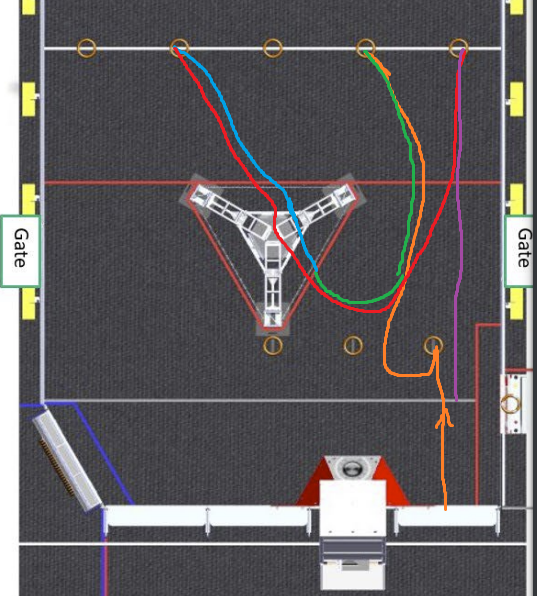
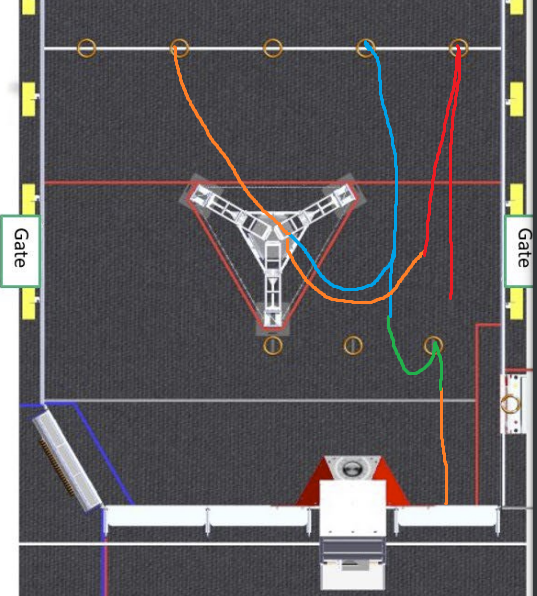
fixed some bugs in red ds2
added blue ds2 auto stage, which is just flipping red ds2 over
working on other auto stages...

Changed region(s): [[0.3277, 0.0604, 0.8641, 0.7248], [0.8045, 0.755, 0.8343, 0.8456]]

diff --git a/src/main/java/frc/robot/AutoStagePrograms/BlueDS2.java b/src/main/java/frc/robot/AutoStagePrograms/BlueDS2.java
@@ -2,6 +2,7 @@ package frc.robot.AutoStagePrograms;
 
 import frc.robot.RobotCore;
 import frc.robot.Utils.ComputerVisionUtils.AutoStageVisionAimBot;
+import frc.robot.Utils.Flip;
 import frc.robot.Utils.MathUtils.BezierCurve;
 import frc.robot.Utils.MathUtils.Rotation2D;
 import frc.robot.Utils.MathUtils.SpeedCurves;
@@ -12,25 +13,28 @@ import frc.robot.Utils.SequentialCommandSegment;
 import java.util.ArrayList;
 import java.util.List;
 
-public class RedDS2 implements AutoStageProgram {
+public class BlueDS2 implements AutoStageProgram {
     public static final Vector2D
-            assumedSpeakerPosition = new Vector2D(new double[] {1.45, 0}),
-            allianceFrontNotePosition = new Vector2D(new double[] {0, 2.9}),
-            allianceRighterNotePosition = new Vector2D(new double[] {1.45, 2.9}),
-            midLineLefterNotePosition = new Vector2D(new double[] {-1.68, 8.27}).addBy(new Vector2D(new double[] {0, 0.5})),
-            midLineCenterNotePosition = new Vector2D(new double[] {0.3, 8.27}),
-            midLineRighterNotePosition = new Vector2D(new double[] {1.68, 8.27});
+            assumedSpeakerPosition = Flip.flipHorizontally(RedDS2.assumedSpeakerPosition),
+            allianceFrontNotePosition = Flip.flipHorizontally(RedDS2.assumedSpeakerPosition),
+            allianceRighterNotePosition = Flip.flipHorizontally(RedDS2.assumedSpeakerPosition),
+            midLineLefterNotePosition = Flip.flipHorizontally(RedDS2.assumedSpeakerPosition),
+            midLineCenterNotePosition = Flip.flipHorizontally(RedDS2.assumedSpeakerPosition),
+            midLineRighterNotePosition = Flip.flipHorizontally(RedDS2.assumedSpeakerPosition);
     @Override
     public List<SequentialCommandSegment> getCommandSegments(RobotCore robotCore) {
         final double timeScaleAutoIntake = 0.5;
         final long intakeTimeOut = 3000;
         final List<SequentialCommandSegment> commandSegments = new ArrayList<>();
-        final SequentialCommandFactory commandFactory = new SequentialCommandFactory(robotCore, AutonomousTemplateRedDS2.startingPosition, new Rotation2D(Math.toRadians(-90)));
+        final SequentialCommandFactory commandFactory = new SequentialCommandFactory(robotCore, AutonomousTemplateBlueDS2.startingPosition, new Rotation2D(Math.toRadians(-90)));
         final AutoStageVisionAimBot aimBot = new AutoStageVisionAimBot(robotCore, intakeTimeOut);
         final SequentialCommandSegment waitForArmToBeInPosition = new SequentialCommandSegment(
                 () -> true,
                 () -> null,
-                () -> {}, () -> {}, () -> {},
+                () -> {
+                }, () -> {
+        }, () -> {
+        },
                 robotCore.transformableArm::transformerInPosition,
                 robotCore.positionReader::getRobotRotation2D, robotCore.positionReader::getRobotRotation2D
         );
@@ -39,7 +43,7 @@ public class RedDS2 implements AutoStageProgram {
 
         /* shoot the first note */
         commandSegments.add(aimBot.shootWhileMoving(
-                new BezierCurve(AutonomousTemplateRedDS2.startingPosition, AutonomousTemplateRedDS2.position1),
+                new BezierCurve(AutonomousTemplateBlueDS2.startingPosition, AutonomousTemplateBlueDS2.position1),
                 assumedSpeakerPosition,
                 4000
         ));
@@ -47,7 +51,10 @@ public class RedDS2 implements AutoStageProgram {
         /* the note in front */
         commandSegments.add(commandFactory.justDoIt(aimBot.prepareToIntake()));
         commandSegments.add(commandFactory.moveToPointIf(
-                () -> true, AutonomousTemplateRedDS2.position1, ()->{}, () -> {}, () ->{}, new Rotation2D(Math.toRadians(180)))
+                () -> true, AutonomousTemplateBlueDS2.position1, () -> {
+                }, () -> {
+                }, () -> {
+                }, new Rotation2D(Math.toRadians(180)))
         );
         commandSegments.add(aimBot.grabNote(
                 () -> true,
@@ -57,7 +64,7 @@ public class RedDS2 implements AutoStageProgram {
                 false));
         /* shoot the gabbed note */
         commandSegments.add(aimBot.shootWhileMoving(
-                new BezierCurve(AutonomousTemplateRedDS2.position1, AutonomousTemplateRedDS2.position2, AutonomousTemplateRedDS2.position3),
+                new BezierCurve(AutonomousTemplateBlueDS2.position1, AutonomousTemplateBlueDS2.position2, AutonomousTemplateBlueDS2.position3),
                 assumedSpeakerPosition,
                 4000
         ));
@@ -67,41 +74,51 @@ public class RedDS2 implements AutoStageProgram {
         /* go over the stage zone */
         commandSegments.add(new SequentialCommandSegment(
                 () -> true,
-                () -> new BezierCurve(AutonomousTemplateRedDS2.position3, AutonomousTemplateRedDS2.position4, AutonomousTemplateRedDS2.position5, AutonomousTemplateRedDS2.position6),
-                () -> {}, () -> {}, () -> {},
+                () -> new BezierCurve(AutonomousTemplateBlueDS2.position3, AutonomousTemplateBlueDS2.position4, AutonomousTemplateBlueDS2.position5, AutonomousTemplateBlueDS2.position6),
+                () -> {
+                }, () -> {
+        }, () -> {
+        },
                 () -> true,
                 () -> new Rotation2D(Math.toRadians(-180)), () -> new Rotation2D(Math.toRadians(-180))
         ));
         /* the lefter note on the middle line */
         commandSegments.add(new SequentialCommandSegment(
                 () -> true,
-                () -> new BezierCurve(AutonomousTemplateRedDS2.position6, AutonomousTemplateRedDS2.position7, AutonomousTemplateRedDS2.position8),
-                aimBot.prepareToIntake(), ()->{}, ()->{},
+                () -> new BezierCurve(AutonomousTemplateBlueDS2.position6, AutonomousTemplateBlueDS2.position7, AutonomousTemplateBlueDS2.position8),
+                aimBot.prepareToIntake(), () -> {
+        }, () -> {
+        },
                 () -> true,
                 () -> new Rotation2D(Math.toRadians(-180)), () -> new Rotation2D(Math.toRadians(-135)),
-                SpeedCurves.easeOut,timeScaleAutoIntake
+                SpeedCurves.easeOut, timeScaleAutoIntake
         ));
         commandSegments.add(aimBot.grabNote(midLineLefterNotePosition, new Rotation2D(Math.toRadians(-135)), 2000));
 
         /* same way back */
         commandSegments.add(new SequentialCommandSegment(
                 () -> true,
-                () -> new BezierCurve(AutonomousTemplateRedDS2.position8, AutonomousTemplateRedDS2.position7, AutonomousTemplateRedDS2.position6),
-                () -> {}, () -> {}, () -> {},
+                () -> new BezierCurve(AutonomousTemplateBlueDS2.position8, AutonomousTemplateBlueDS2.position7, AutonomousTemplateBlueDS2.position6),
+                () -> {
+                }, () -> {
+        }, () -> {
+        },
                 robotCore.transformableArm::transformerInPosition,
                 () -> new Rotation2D(Math.toRadians(-135)), () -> new Rotation2D(Math.toRadians(-180))
         ));
         /* stage zone (back) */
         commandSegments.add(new SequentialCommandSegment(
                 () -> true,
-                () -> new BezierCurve(AutonomousTemplateRedDS2.position6, AutonomousTemplateRedDS2.position5, AutonomousTemplateRedDS2.position4, AutonomousTemplateRedDS2.position3),
-                aimBot.prepareToShoot(), () -> {}, () -> {},
+                () -> new BezierCurve(AutonomousTemplateBlueDS2.position6, AutonomousTemplateBlueDS2.position5, AutonomousTemplateBlueDS2.position4, AutonomousTemplateBlueDS2.position3),
+                aimBot.prepareToShoot(), () -> {
+        }, () -> {
+        },
                 () -> true,
                 () -> new Rotation2D(Math.toRadians(-180)), () -> new Rotation2D(Math.toRadians(-180))
         ));
         /* shoot the note */
         commandSegments.add(aimBot.shootWhileMoving(
-                new BezierCurve(AutonomousTemplateRedDS2.position3, AutonomousTemplateRedDS2.position10, AutonomousTemplateRedDS2.position11),
+                new BezierCurve(AutonomousTemplateBlueDS2.position3, AutonomousTemplateBlueDS2.position10, AutonomousTemplateBlueDS2.position11),
                 assumedSpeakerPosition,
                 4000
         ));
@@ -110,7 +127,7 @@ public class RedDS2 implements AutoStageProgram {
         commandSegments.add(aimBot.grabNote(() -> true, allianceRighterNotePosition, new Rotation2D(Math.toRadians(180)), intakeTimeOut, true));
         /* shoot still right here */
         commandSegments.add(aimBot.shootWhileMoving(
-                new BezierCurve(AutonomousTemplateRedDS2.position12, AutonomousTemplateRedDS2.position12.addBy(new Vector2D(new double[] {0, 1}))),
+                new BezierCurve(AutonomousTemplateBlueDS2.position12, AutonomousTemplateBlueDS2.position12.addBy(new Vector2D(new double[]{0, 1}))),
                 assumedSpeakerPosition,
                 4000
         ));
@@ -119,69 +136,58 @@ public class RedDS2 implements AutoStageProgram {
         commandSegments.add(waitForArmToBeInPosition);
         commandSegments.add(new SequentialCommandSegment(
                 () -> true,
-                () -> new BezierCurve(AutonomousTemplateRedDS2.position12.addBy(new Vector2D(new double[] {0, 1})), AutonomousTemplateRedDS2.position4, AutonomousTemplateRedDS2.position13, AutonomousTemplateRedDS2.position14),
-                () -> {}, () -> {}, () -> {},
+                () -> new BezierCurve(AutonomousTemplateBlueDS2.position12.addBy(new Vector2D(new double[]{0, 1})), AutonomousTemplateBlueDS2.position4, AutonomousTemplateBlueDS2.position13, AutonomousTemplateBlueDS2.position14),
+                () -> {
+                }, () -> {
+        }, () -> {
+        },
                 () -> true,
                 () -> new Rotation2D(Math.toRadians(-180)), () -> new Rotation2D(Math.toRadians(-180))
         ));
         /* grab the center note on middle line */
         commandSegments.add(new SequentialCommandSegment(
                 () -> true,
-                () -> new BezierCurve(AutonomousTemplateRedDS2.position14, AutonomousTemplateRedDS2.position15),
-                ()->{}, ()->{}, ()->{},
+                () -> new BezierCurve(AutonomousTemplateBlueDS2.position14, AutonomousTemplateBlueDS2.position15),
+                () -> {
+                }, () -> {
+        }, () -> {
+        },
                 () -> true,
                 () -> new Rotation2D(Math.toRadians(-180)), () -> new Rotation2D(Math.toRadians(-180)),
                 SpeedCurves.easeOut,
                 timeScaleAutoIntake
-                ));
+        ));
         commandSegments.add(aimBot.grabNote(midLineCenterNotePosition, new Rotation2D(Math.toRadians(-180)), intakeTimeOut));
 
         /* drive back in the same way */
         commandSegments.add(new SequentialCommandSegment(
                 () -> true,
-                () -> new BezierCurve(AutonomousTemplateRedDS2.position15, AutonomousTemplateRedDS2.position14),
-                () -> {}, () -> {}, () -> {},
+                () -> new BezierCurve(AutonomousTemplateBlueDS2.position15, AutonomousTemplateBlueDS2.position14),
+                () -> {
+                }, () -> {
+        }, () -> {
+        },
                 robotCore.transformableArm::transformerInPosition,
                 () -> new Rotation2D(Math.toRadians(-135)), () -> new Rotation2D(Math.toRadians(-180))
         ));
         /* crossing stage */
         commandSegments.add(new SequentialCommandSegment(
                 () -> true,
-                () -> new BezierCurve(AutonomousTemplateRedDS2.position14, AutonomousTemplateRedDS2.position13, AutonomousTemplateRedDS2.position4, AutonomousTemplateRedDS2.position16),
-                () -> {}, () -> {}, () -> {},
+                () -> new BezierCurve(AutonomousTemplateBlueDS2.position14, AutonomousTemplateBlueDS2.position13, AutonomousTemplateBlueDS2.position4, AutonomousTemplateBlueDS2.position16),
+                () -> {
+                }, () -> {
+        }, () -> {
+        },
                 () -> true,
                 () -> new Rotation2D(Math.toRadians(-180)), () -> new Rotation2D(Math.toRadians(-180))
         ));
         /* shoot */
         commandSegments.add(aimBot.shootWhileMoving(
-//                new BezierCurve(AutonomousTemplateRedDS2.position16, AutonomousTemplateRedDS2.position12, AutonomousTemplateRedDS2.position17),
-                new BezierCurve(AutonomousTemplateRedDS2.position16, AutonomousTemplateRedDS2.position12, AutonomousTemplateRedDS2.position12),
+//                new BezierCurve(AutonomousTemplateBlueDS2.position16, AutonomousTemplateBlueDS2.position12, AutonomousTemplateBlueDS2.position17),
+                new BezierCurve(AutonomousTemplateBlueDS2.position16, AutonomousTemplateBlueDS2.position12, AutonomousTemplateBlueDS2.position12),
                 assumedSpeakerPosition,
                 3000
         ));
-
-//
-//        /* grab the right note on middle line */
-//        commandSegments.add(new SequentialCommandSegment(
-//                () -> true,
-//                () -> new BezierCurve(AutonomousTemplateRedDS2.position17, AutonomousTemplateRedDS2.position18, AutonomousTemplateRedDS2.position19, AutonomousTemplateRedDS2.position20),
-//                ()->{}, ()->{}, ()->{},
-//                () -> true,
-//                () -> new Rotation2D(Math.toRadians(-180)), () -> new Rotation2D(Math.toRadians(-180)),
-//                SpeedCurves.easeOut, timeScaleAutoIntake
-//        ));
-//        commandSegments.add(commandFactory.moveFromPointToMidPointToPoint(
-//                AutonomousTemplateRedDS2.position18, AutonomousTemplateRedDS2.position19, AutonomousTemplateRedDS2.position20, new Rotation2D(Math.toRadians(-180)), new Rotation2D(Math.toRadians(-180))
-//        ));
-//        commandSegments.add(aimBot.grabNote(midLineRighterNotePosition, new Rotation2D(Math.toRadians(135)), intakeTimeOut));
-//        /* shoot the last note and stop */
-//        commandSegments.add(aimBot.shootWhileMoving(
-//                new BezierCurve(AutonomousTemplateRedDS2.position20, AutonomousTemplateRedDS2.position21, AutonomousTemplateRedDS2.position22),
-//                assumedSpeakerPosition,
-//                6000
-//        ));
-//
-//        commandSegments.add(commandFactory.lockChassis());
         return commandSegments;
     }
 }

diff --git a/src/main/java/frc/robot/AutoStagePrograms/RedDS3.java b/src/main/java/frc/robot/AutoStagePrograms/RedDS3.java
@@ -1,0 +1,89 @@
+package frc.robot.AutoStagePrograms;
+
+import frc.robot.RobotCore;
+import frc.robot.Utils.ComputerVisionUtils.AutoStageVisionAimBot;
+import frc.robot.Utils.MathUtils.BezierCurve;
+import frc.robot.Utils.MathUtils.Rotation2D;
+import frc.robot.Utils.MathUtils.SpeedCurves;
+import frc.robot.Utils.MathUtils.Vector2D;
+import frc.robot.Utils.SequentialCommandFactory;
+import frc.robot.Utils.SequentialCommandSegment;
+
+import java.util.ArrayList;
+import java.util.List;
+
+public class RedDS3 implements AutoStageProgram {
+    public static final Vector2D
+            robotStartingPosition = new Vector2D(new double[] {2.9, 0.3}),
+            assumedSpeakerPosition = new Vector2D(new double[] {1.45, 0}),
+            allianceFrontNotePosition = new Vector2D(new double[] {2.9, 2.9}),
+            allianceFrontNoteIntakePosition = new Vector2D(new double[] {2.9, 2.4}),
+            secondNote1 = new Vector2D(new double[]{2.9, 2.5}),
+            secondNote2 = secondNote1.addBy(new Vector2D(Math.toRadians(-135), 1.35)),
+            secondNote4 = new Vector2D(new double[]{2.1, 4}),
+            secondNote3 = secondNote4.addBy(new Vector2D(Math.toRadians(-100), 1.4)),
+            moveToThirdNoteMid = new Vector2D(new double[] {2.4, 5.8}),
+            centerLineRighterNotePosition = new Vector2D(new double[] {1.68, 8.27}),
+            moveToThirdNoteEnd = centerLineRighterNotePosition.addBy(new Vector2D(new double[] {0, -0.6})),
+            moveFromThirdNoteBackMid = secondNote4.addBy(new Vector2D(Math.toRadians(30), 1.2)),
+            shootThirdNoteMid = secondNote4.addBy(new Vector2D(Math.toRadians(-150), 1)),
+            stageZoneCenter = new Vector2D(new double[] {0, 4.8}),
+            moveToFourthNote2 = new Vector2D(new double[] {-0.7, 5.8}),
+            moveToFourthNote3 = new Vector2D(new double[] {0.2, 6.2}),
+            CenterLineLefterNotePosition = new Vector2D(new double[] {-1,68, 8.27}),
+            fourthNoteIntakePosition = CenterLineLefterNotePosition.addBy(new Vector2D(new double[] {0.5, -0.5}));
+
+
+
+
+
+
+
+    @Override
+    public List<SequentialCommandSegment> getCommandSegments(RobotCore robotCore) {
+        final double timeScaleAutoIntake = 0.5;
+        final long intakeTimeOut = 3000;
+        final List<SequentialCommandSegment> commandSegments = new ArrayList<>();
+        final SequentialCommandFactory commandFactory = new SequentialCommandFactory(robotCore, robotStartingPosition, new Rotation2D(Math.toRadians(90)));
+        final AutoStageVisionAimBot aimBot = new AutoStageVisionAimBot(robotCore, intakeTimeOut);
+        commandSegments.add(commandFactory.calibratePositionEstimator());
+
+        /* move out, shoot the preloaded note */
+        commandSegments.add(aimBot.shootWhileMoving(
+                new BezierCurve(robotStartingPosition, allianceFrontNoteIntakePosition),
+                assumedSpeakerPosition,
+                4000
+        ));
+
+        /* the note in front */
+        commandSegments.add(commandFactory.justDoIt(aimBot.prepareToIntake()));
+        commandSegments.add(commandFactory.moveToPointIf(
+                () -> true, allianceFrontNoteIntakePosition, ()->{}, () -> {}, () ->{}, new Rotation2D(Math.toRadians(180)))
+        );
+        commandSegments.add(aimBot.grabNote(
+                () -> true,
+                allianceFrontNotePosition,
+                new Rotation2D(Math.toRadians(180)),
+                intakeTimeOut,
+                false));
+        /* shoot */
+        commandSegments.add(aimBot.shootWhileMoving(
+                new BezierCurve(secondNote1, secondNote2, secondNote3, secondNote4),
+                assumedSpeakerPosition,
+                4000
+        ));
+
+        /* move to the third note */
+        commandSegments.add(new SequentialCommandSegment(
+                () -> true,
+                () -> new BezierCurve(secondNote4, moveToThirdNoteMid, moveToThirdNoteEnd),
+                aimBot.prepareToIntake(), ()->{}, ()->{},
+                () -> true,
+                () -> new Rotation2D(Math.toRadians(-180)), () -> new Rotation2D(Math.toRadians(-155)),
+                SpeedCurves.easeOut,timeScaleAutoIntake
+        ));
+        commandSegments.add(aimBot.grabNote(centerLineRighterNotePosition, new Rotation2D(Math.toRadians(-155)), intakeTimeOut));
+        // TODO over here
+        return commandSegments;
+    }
+}

diff --git a/src/main/java/frc/robot/AutoStagePrograms/AutonomousTemplateBlueDS2.java b/src/main/java/frc/robot/AutoStagePrograms/AutonomousTemplateBlueDS2.java
@@ -1,0 +1,29 @@
+package frc.robot.AutoStagePrograms;
+
+import frc.robot.Utils.Flip;
+import frc.robot.Utils.MathUtils.Vector2D;
+
+public class AutonomousTemplateBlueDS2 {
+    public static final Vector2D startingPosition = Flip.flipHorizontally(AutonomousTemplateRedDS2.startingPosition),
+            position1 = Flip.flipHorizontally(AutonomousTemplateRedDS2.position1),
+            position2 = Flip.flipHorizontally(AutonomousTemplateRedDS2.position2),
+            position3 = Flip.flipHorizontally(AutonomousTemplateRedDS2.position3),
+            position4 = Flip.flipHorizontally(AutonomousTemplateRedDS2.position4),
+            position5 = Flip.flipHorizontally(AutonomousTemplateRedDS2.position5),
+            position6 = Flip.flipHorizontally(AutonomousTemplateRedDS2.position6),
+            position7 = Flip.flipHorizontally(AutonomousTemplateRedDS2.position7),
+            position8 = Flip.flipHorizontally(AutonomousTemplateRedDS2.position8),
+            position10 = Flip.flipHorizontally(AutonomousTemplateRedDS2.position10),
+            position11 = Flip.flipHorizontally(AutonomousTemplateRedDS2.position11),
+            position12 = Flip.flipHorizontally(AutonomousTemplateRedDS2.position12),
+            position13 = Flip.flipHorizontally(AutonomousTemplateRedDS2.position13),
+            position14 = Flip.flipHorizontally(AutonomousTemplateRedDS2.position14),
+            position15 = Flip.flipHorizontally(AutonomousTemplateRedDS2.position15),
+            position16 = Flip.flipHorizontally(AutonomousTemplateRedDS2.position16),
+            position17 = Flip.flipHorizontally(AutonomousTemplateRedDS2.position17),
+            position18 = Flip.flipHorizontally(AutonomousTemplateRedDS2.position18),
+            position19 = Flip.flipHorizontally(AutonomousTemplateRedDS2.position19),
+            position20 = Flip.flipHorizontally(AutonomousTemplateRedDS2.position20),
+            position21 = Flip.flipHorizontally(AutonomousTemplateRedDS2.position21),
+            position22 = Flip.flipHorizontally(AutonomousTemplateRedDS2.position22);
+}

diff --git a/src/main/java/frc/robot/Utils/Flip.java b/src/main/java/frc/robot/Utils/Flip.java
@@ -1,0 +1,15 @@
+package frc.robot.Utils;
+
+import frc.robot.Utils.MathUtils.AngleUtils;
+import frc.robot.Utils.MathUtils.Rotation2D;
+import frc.robot.Utils.MathUtils.Vector2D;
+
+public class Flip {
+    public static Vector2D flipHorizontally(Vector2D vector2D) {
+        return new Vector2D(new double[] {-vector2D.getX(), vector2D.getY()});
+    }
+
+    public static Rotation2D flipHorizontally(Rotation2D rotation2D) {
+        return new Rotation2D(AngleUtils.simplifyAngle(rotation2D.getRadian() + Math.PI));
+    }
+}

diff --git a/path planner reverse.py b/path planner reverse.py
@@ -1,0 +1,7 @@
+while True:
+    x, y = map(float, input().split())
+
+    new_x = y - 8.21/2
+    new_y = 16.54 - x
+
+    print(new_x, new_y)
